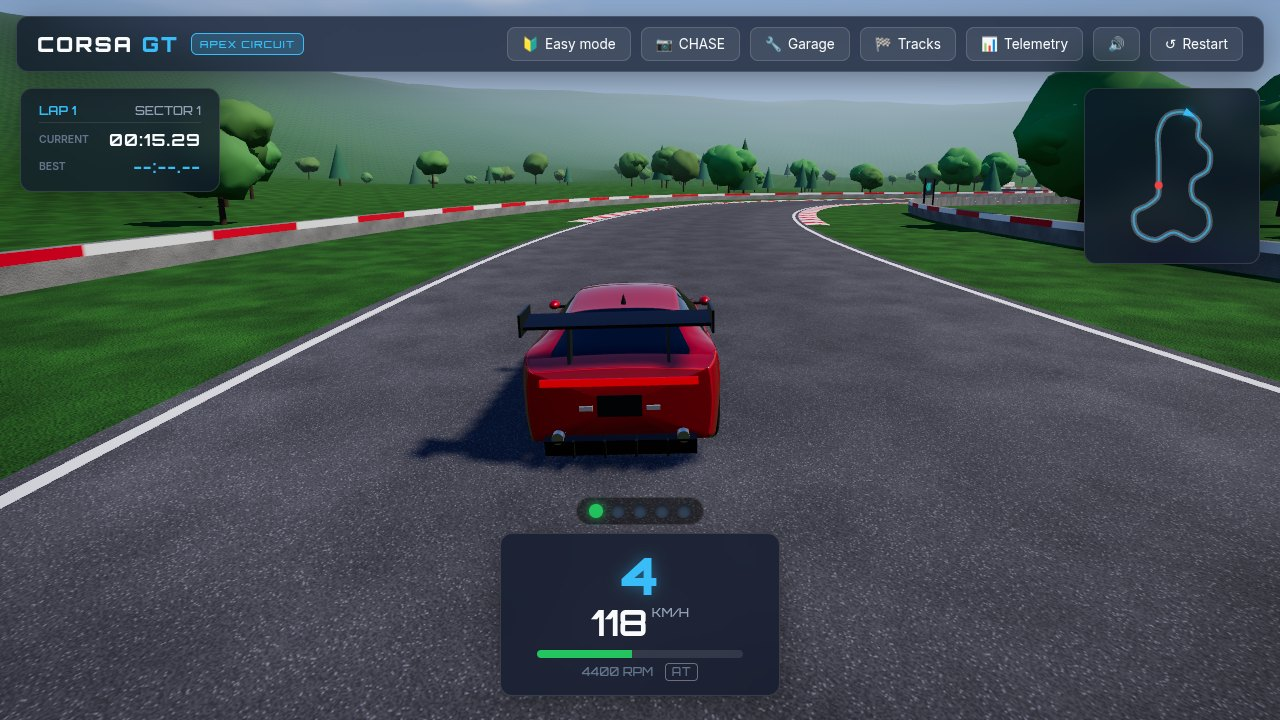
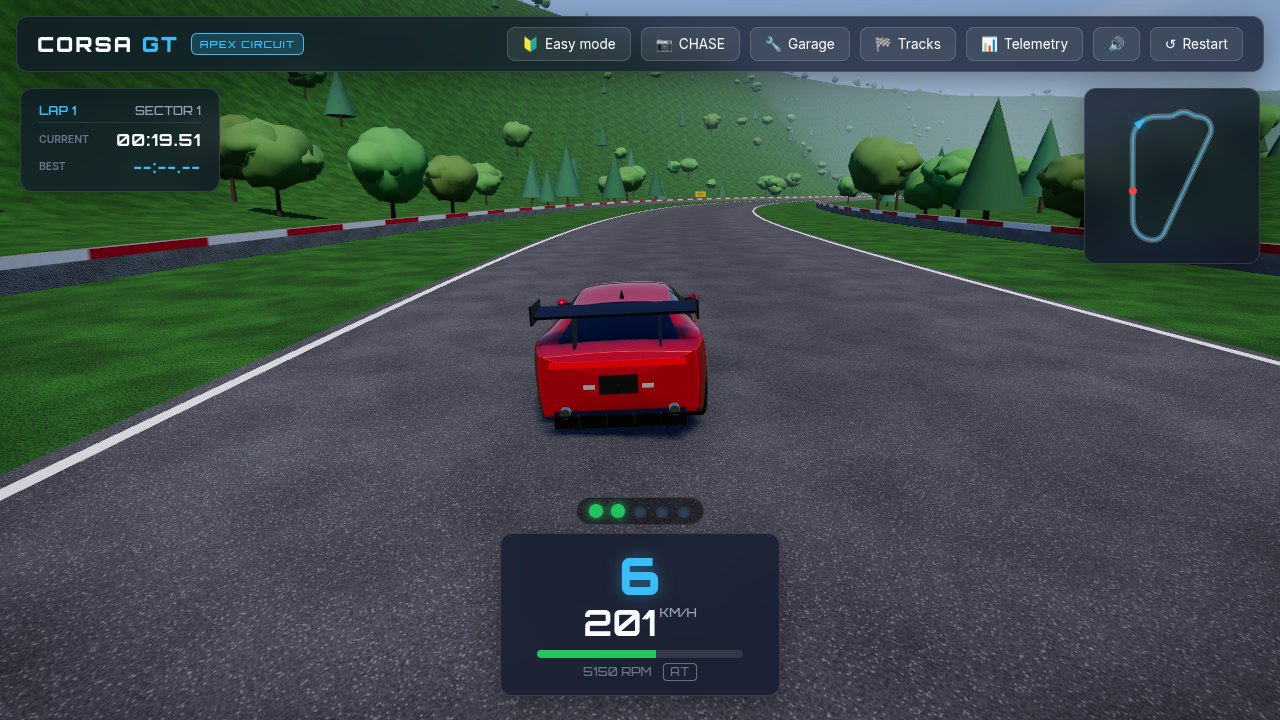
modified APEX CIRCUIT

diff --git a/src/engine/track/TrackData.js b/src/engine/track/TrackData.js
@@ -2,23 +2,77 @@
  * Circuit definitions. Control points are [x, y, z] in metres; the car starts
  * at the first point heading towards the second (+Z).
  */
+/**
+ * Build a closed circuit from straights and arcs, so curvature changes
+ * smoothly instead of wherever hand-placed points happen to put it. That
+ * matters at speed: a lumpy line that is fine at 150 km/h throws the car
+ * about at 300.
+ *
+ * segments: [length] is a straight, [radius, degrees] an arc (negative
+ * degrees turn right). The turns must add up to a full lap and the straights
+ * be chosen so the loop meets itself; any small remainder is spread evenly.
+ * Corner entries and exits are eased over `ease` metres.
+ */
+function layout(segments, { spacing = 40, ease = 90 } = {}) {
+  const curvature = [];
+  for (const seg of segments) {
+    if (seg.length === 1) {
+      for (let i = 0; i < Math.round(seg[0]); i++) curvature.push(0);
+    } else {
+      const angle = (seg[1] * Math.PI) / 180;
+      const n = Math.round(Math.abs(angle) * seg[0]);
+      for (let i = 0; i < n; i++) curvature.push(angle / n);
+    }
+  }
+  const n = curvature.length;
+  const half = Math.round(ease / 2);
+
+  // Walk the line a metre at a time, steering by the moving average of the curvature
+  const path = [];
+  let x = 0;
+  let z = 0;
+  let heading = 0;
+  let sum = 0;
+  for (let k = -half; k <= half; k++) sum += curvature[(k + n) % n];
+  for (let i = 0; i < n; i++) {
+    path.push([x, z]);
+    heading += sum / (2 * half + 1);
+    x += Math.sin(heading);
+    z += Math.cos(heading);
+    sum += curvature[(i + half + 1) % n] - curvature[(i - half + n) % n];
+  }
+
+  const points = [];
+  const count = Math.round(n / spacing);
+  for (let j = 0; j < count; j++) {
+    const i = Math.round((j * n) / count);
+    points.push([path[i][0] - (x * i) / n, 0, path[i][1] - (z * i) / n]);
+  }
+  return points;
+}
+
 export const TRACKS = {
   apex: {
     id: 'apex',
     name: 'APEX CIRCUIT',
     theme: 'apex',
     defaultTod: 'noon',
-    halfWidth: 7,
-    runoff: 9,
+    halfWidth: 8,
+    runoff: 10,
     runoffSurface: 'grass',
     kerbs: true,
-    points: [
-      [0, 0, 0], [0, 0, 150], [0, 0, 290], [-45, 0, 375], [-135, 0, 395],
-      [-215, 0, 345], [-215, 0, 255], [-275, 0, 180], [-265, 0, 85],
-      [-185, 0, 25], [-185, 0, -65], [-260, 0, -130], [-270, 0, -230],
-      [-190, 0, -295], [-80, 0, -255], [20, 0, -295], [115, 0, -250],
-      [130, 0, -150], [55, 0, -105], [5, 0, -60]
-    ]
+    // A power circuit: straights of 1.1 and 1.5 km joined by a fast sweeper, esses and a
+    // long final corner that opens out onto the main straight.
+    points: layout([
+      [700], // start line to the end of the main straight
+      [320, -90], // sweeper
+      [169],
+      [180, 35], [180, -70], [180, 35], // esses
+      [170, -115],
+      [1500], // back straight
+      [160, -65], [280, -90], // final corner, opening out
+      [395] // run to the line; with the first segment this is the main straight
+    ])
   },
   city: {
     id: 'city',

diff --git a/src/engine/Physics.js b/src/engine/Physics.js
@@ -235,7 +235,7 @@ export class VehiclePhysics {
     const t = this.track;
     const aLat = mu * G * latFactor;
     const aBrk = mu * G * brakeFactor;
-    const look = Math.min(320, (this.vx * this.vx) / (2 * aBrk) + 25);
+    const look = Math.min(700, (this.vx * this.vx) / (2 * aBrk) + 25); // far enough to stop from top speed
     const steps = Math.ceil(look / (t.ds * 3));
     let v2min = Infinity;
     for (let k = 0; k <= steps; k++) {
@@ -250,7 +250,8 @@ export class VehiclePhysics {
   /** Pure-pursuit steer angle towards the centreline ahead. */
   lineSteer() {
     const t = this.track;
-    const ld = clamp(5 + 0.42 * this.vx, 6, 38);
+    // Look further ahead the faster we go, or the correction turns twitchy at top speed
+    const ld = clamp(5 + 0.42 * this.vx + 0.002 * this.vx * this.vx, 6, 60);
     const p = t.pointAt(this.q.s + ld, 0, this._target);
     const dx = p.x - this.position.x;
     const dz = p.z - this.position.z;
@@ -260,7 +261,10 @@ export class VehiclePhysics {
     const left = dx * ch - dz * sh;
     const dist = Math.hypot(fwd, left) || 1;
     const wheelbase = this.cgToFront + this.cgToRear;
-    return Math.atan((2 * wheelbase * (left / dist)) / dist);
+    const pursuit = Math.atan((2 * wheelbase * (left / dist)) / dist);
+    // Tyres need slip angle to corner, more of it the faster the car goes; without this
+    // extra lock the car drifts wide through long fast corners before the error builds up
+    return pursuit + wheelbase * this.q.curv * 0.0009 * this.vx * this.vx;
   }
 
   // --- Simulation ------------------------------------------------------
@@ -385,7 +389,8 @@ export class VehiclePhysics {
     const assisted = easy || this.autopilot;
     const tcsLimit = assisted ? 0.8 : 0.97;
     const tcsSlack = assisted ? 0.05 : 0.14;
-    const escGain = (assisted ? 3.2 : 1.3) * (handbrake > 0.5 ? 0.15 : 1);
+    // Stability control works harder under braking, when the unloaded rear is easiest to upset
+    const escGain = (assisted ? 3.2 : 1.3 + brake * 1.9) * (handbrake > 0.5 ? 0.15 : 1);
     let axBody = 0;
     let ayBody = 0;
     let slipF = 0;

diff --git a/src/engine/Scenery.js b/src/engine/Scenery.js
@@ -166,7 +166,9 @@ export function buildScenery(path, def, group) {
     const trunks = [];
     const broadleaf = [];
     const pines = [];
-    for (let i = 0; i < 900; i++) {
+    // Keep the forest as dense on a long circuit as on a short one
+    const treeCount = Math.min(2400, Math.round(path.length * 0.45));
+    for (let i = 0; i < treeCount; i++) {
       const spot = spotBesideTrack(5, 260, 5);
       if (!spot) continue;
       const y = heightAt(spot.x, spot.z) - 0.2;

diff --git a/index.html b/index.html
@@ -299,7 +299,7 @@
             <div class="track-preview apex-bg"></div>
             <div class="track-info">
               <h4>APEX INTERNATIONAL RACEWAY</h4>
-              <p>Flowing parkland circuit with red/white kerbs, forest and a grandstand straight.</p>
+              <p>High-speed parkland circuit: two flat-out straights over a kilometre long, a fast sweeper and esses.</p>
             </div>
           </div>
           <div class="track-card" data-track="city">

diff --git a/README.ja.md b/README.ja.md
@@ -20,7 +20,7 @@
 
 ## 特徴
 
-- **3 つのコース** — 緑に囲まれたサーキット (Apex Circuit)、ネオンが光る夜の市街地 (Neo City Highway)、起伏のある峡谷の道 (Desert Canyon)。
+- **3 つのコース** — 1km 超のストレートが 2 本ある緑の中の高速サーキット (Apex Circuit)、ネオンが光る夜の市街地 (Neo City Highway)、起伏のある峡谷の道 (Desert Canyon)。
 - **時間帯と天候** — 昼・夕方・深夜、晴れ・雨を選べます。雨では路面が濡れて反射し、グリップが下がります。
 - **走行モデル** — タイヤが実際に滑る挙動、6 速ギアボックス (AT / MT)、路面ごとに異なるグリップ、すり抜けないバリア。
 - **2 段階のアシスト** — 「かんたん」はコーナー手前で自動的に減速し、ハンドルを離すとコースに沿って走ります。「ノーマル」は ABS と弱いトラクションコントロールのみです。

diff --git a/README.md b/README.md
@@ -18,7 +18,7 @@ On a phone in landscape:
 
 ## Features
 
-- **Three circuits** — a parkland circuit (Apex Circuit), a neon street circuit at night (Neo City Highway) and a canyon road with elevation changes (Desert Canyon).
+- **Three circuits** — a high-speed parkland circuit with two kilometre-long straights (Apex Circuit), a neon street circuit at night (Neo City Highway) and a canyon road with elevation changes (Desert Canyon).
 - **Time of day and weather** — noon, sunset or midnight, clear or rain. Rain makes the road wet and reflective and reduces grip.
 - **Driving model** — the tyres really do slip, with a 6-speed gearbox (automatic or manual), surface-dependent grip and solid barriers.
 - **Two assist levels** — *Easy* brakes for corners and steers back to the road when you let go of the wheel; *Normal* leaves you with ABS and light traction control.
